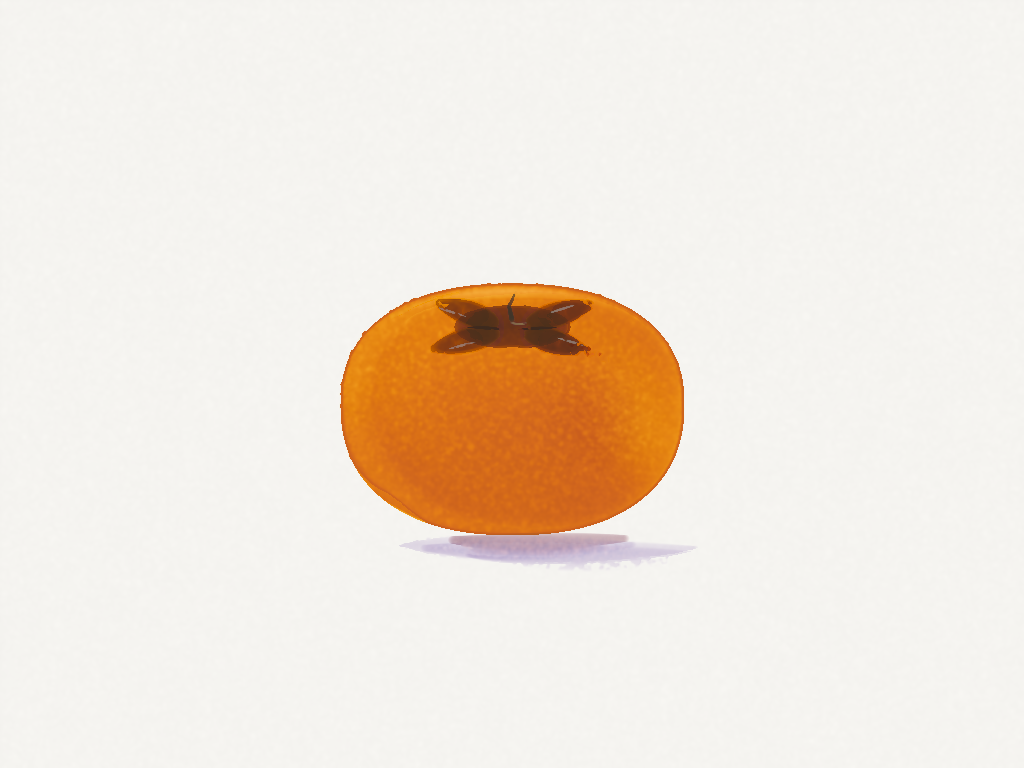
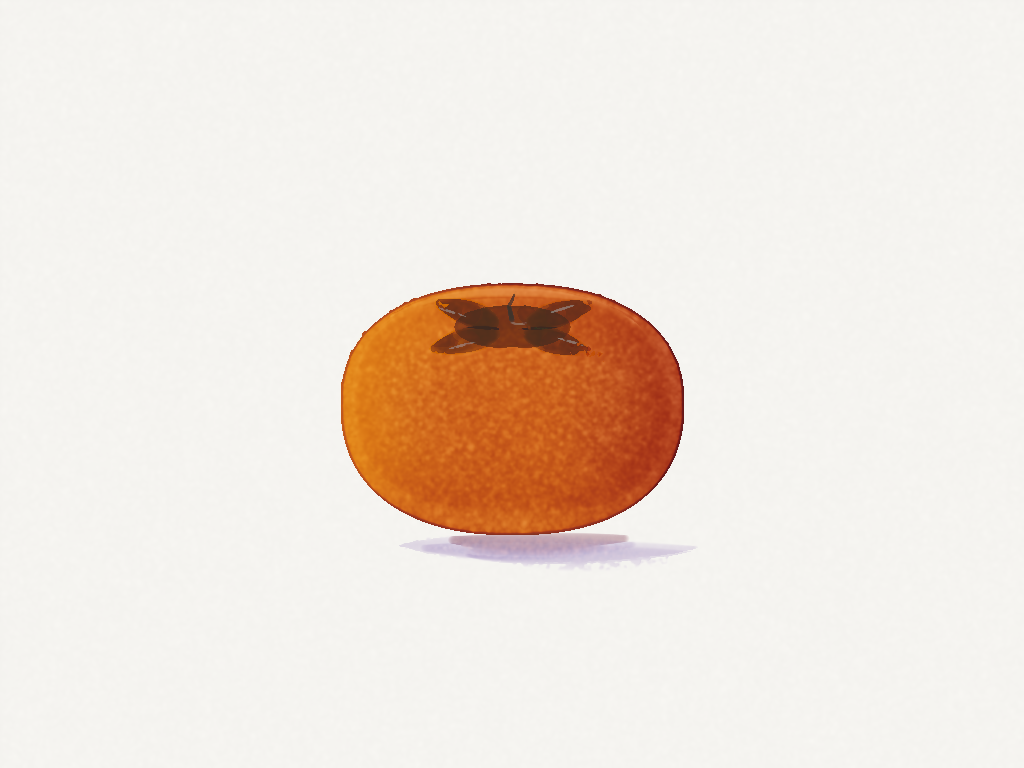
Autumn lantern on d3c2bd0: variegated body again, 0.42
With the wash no longer pushing paint (that push was the heavy side and the
pale foot), a variegated body is clean and carries the turn the fruit needs:
L 58 at the left against 46 at the right, where a graded body gave only 60 to
56 top to bottom. The paint multiplier fell 1.38 -> 1.05, so the same density
needs more strength; a flat body matches the old 0.47 at about 0.52, and this
variegated one sits at 0.42.

Image regenerated from the script and checked identical (AE 0).

Changed region(s): [[0.4062, 0.3438, 0.6875, 0.6875], [0.4375, 0.6875, 0.5625, 0.7188], [0.4062, 0.6562, 0.4375, 0.6875]]

diff --git a/paintings/autumn-lantern.js b/paintings/autumn-lantern.js
@@ -1,8 +1,10 @@
 // Autumn lantern (a Fuyu persimmon) on white paper.
-// Thirteenth pass, on bb046a8 (the paper does not dry while a wash is laid). The body wash
-// comes out about 15% lighter on the new behaviour, so the graded body goes 0.41 -> 0.47 at
-// fadeTo 2.0. The calyx is warmer and lighter, and two marks that read as objects are gone:
-// the ring of creases at its centre (a drawn circle) and the pale dot of the stem scar (an eye).
+// Fourteenth pass, on d3c2bd0 (a wash's strokes no longer push wet paint; the push was what
+// made a round wash's heavy side and pale foot). With that gone a variegated body is clean again
+// - the reason I abandoned it was the bias - and it carries a lateral turn (L 58 left to 46
+// right) where a graded body gives only 60 to 56 top to bottom. Body: variegated 0.42 into the
+// darker mix; the wash's paint multiplier also dropped 1.38 -> 1.05, so the same density needs a
+// higher strength than before (a flat body matches at ~0.52).
 const S=window.__sim,h=S.headless,V=S.values,M=window.__minds;
 window.__paintLog=[];
 const log=t=>{window.__paintLog.push(t);console.log('[paint]',t);};
@@ -62,8 +64,8 @@ window.__paintDone=(async()=>{
   await dry([[556,546]]);await S.look('shadow');
 
   log('the fruit: yellow-orange across into deep red-orange, one variegated wash');
-  h.setBrushPreset('mop');h.setBrush(LIGHT);V.brushRadius=72;V.brushPigment=0.47;V.dipLoad=0.36;
-  await S.wash(fruit,{kind:"graded",fadeTo:2.0,paper:"moist"});
+  h.setBrushPreset('mop');h.setBrush(LIGHT);V.brushRadius=72;V.brushPigment=0.42;V.dipLoad=0.36;
+  await S.wash(fruit,{kind:"variegated",into:DARKER,direction:"across",paper:"moist"});
   await S.skipTo('shiny',{points:[[512,406]]});
 
   log('the deepest note low on the right, while shiny, following the form');
@@ -108,6 +110,6 @@ window.__paintDone=(async()=>{
   await S.path([[560,344,0.1],[590,352,0.4],[612,362,0.1]],4);
   await dry([[512,CALY]]);
   await S.look('finished');
-  await S.note('Autumn lantern (paintings/autumn-lantern.js), DeepSeek: a Fuyu persimmon on white paper, repainted on bb046a8 (the paper does not dry while a wash is laid). The body lands about 15% lighter on that behaviour, so graded fadeTo 2.0 goes 0.41 -> 0.47; the wash is now even top to bottom and side to side (rect 0.94/0.99, sides 1.00/1.01, pale cells 0.04%), with discs still leaning right about 13% (1.11/1.25) and their middles at ~0.75 of a stroke. Calyx: warmer and lighter (yellow oxide level with umber), and two marks removed that read as objects rather than as a calyx - the ellipse of creases at its centre read as a drawn ring, and the pale stem scar read as an eye. Body left plain: the wash is even enough now that depth has to come from the graded fade and the note. No physics changes.');
+  await S.note('Autumn lantern (paintings/autumn-lantern.js), DeepSeek: a Fuyu persimmon on white paper, repainted on d3c2bd0. That change (a wash strokes do not push wet paint; brushDrag 0 while the Wash tool works) removed the round wash heavy side and pale foot, so the probe now reads a symmetric rim (disc sides 1.23/1.20 and 1.21/1.21) and a foot of 1.00. Because the push had been spreading paint thin, the wash paint multiplier fell 1.38 -> 1.05 and the same density now needs a higher strength: a flat body matches the old 0.47 at about 0.52. Variegated is usable again now the bias is gone, and it is the better body here - measured on the fruit it runs L 58 left to 46 right, where a graded body only runs 60 to 56 top to bottom (graded does work; I had been measuring the wrong axis). Body variegated 0.42 into the darker red-oxide mix; calyx and shadow as before.');
   log('done');
 })();
